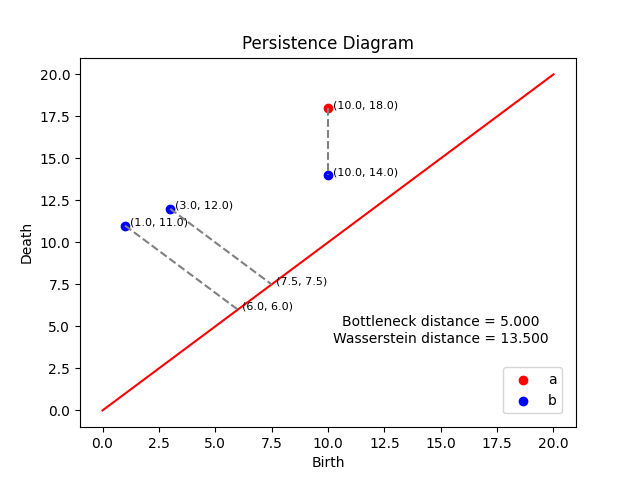
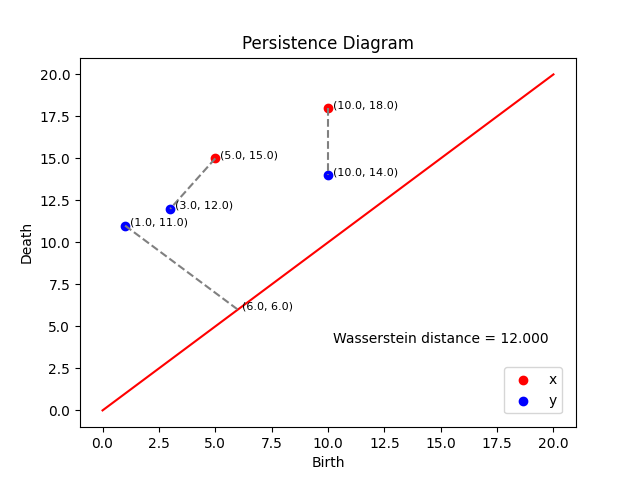
何かの変更　よく覚えてない

diff --git a/gudhi_distance.py b/gudhi_distance.py
@@ -5,14 +5,14 @@ from PIL import Image
 
 from gudhi.wasserstein import wasserstein_distance
 
-a = np.array([[10.0, 18.0]])
+a = np.array([[10.0, 18.0], [5.0, 15.0]])
 b = np.array([[10.0, 14.0], [1.0, 11.0], [3.0, 12.0]])
 
 
 def plot_diagram(a, b):
     plt.clf()
-    plt.scatter(a[:, 0], a[:, 1], c="red", label="a")
-    plt.scatter(b[:, 0], b[:, 1], c="blue", label="b")
+    plt.scatter(a[:, 0], a[:, 1], c="red", label="x")
+    plt.scatter(b[:, 0], b[:, 1], c="blue", label="y")
     plt.title("Persistence Diagram")
     plt.legend(bbox_to_anchor=(1, 0), loc="lower right", borderaxespad=1)
     plt.xlabel("Birth")
@@ -21,8 +21,8 @@ def plot_diagram(a, b):
 
     bottleneck_distance = gd.bottleneck_distance(a, b)
     cost, matchings = wasserstein_distance(a, b, matching=True)
-    message = "Bottleneck distance = " + "%.3f" % bottleneck_distance
-    plt.text(15, 5, message, ha="center", fontsize=10, color="black")
+    # message = "Bottleneck distance = " + "%.3f" % bottleneck_distance
+    # plt.text(15, 5, message, ha="center", fontsize=10, color="black")
     message = "Wasserstein distance = " + "%.3f" % cost
     plt.text(15, 4, message, ha="center", fontsize=10, color="black")
 

diff --git a/PH_make_mp4.py b/PH_make_mp4.py
@@ -10,7 +10,8 @@ import os
 
 def make_mp4(mhd_file_path, output_folder):
     image = sitk.ReadImage(mhd_file_path)
-    image_array = sitk.GetArrayFromImage(image)
+    image_array = sitk.GetArrayFromImage(image)[:, 64:128]
+    print(image_array.shape)
 
     frames = []
 
@@ -25,7 +26,7 @@ def make_mp4(mhd_file_path, output_folder):
         img_copy = frame.copy()
         draw = ImageDraw.Draw(img_copy)
         text = f"{i}"
-        draw.text((3, 3), text, fill=255)  # 位置(10,10)にテキストを描画
+        draw.text((3, 3), text, fill=255)
         frames_with_text.append(img_copy)
 
     # 画像リストをMP4に変換
